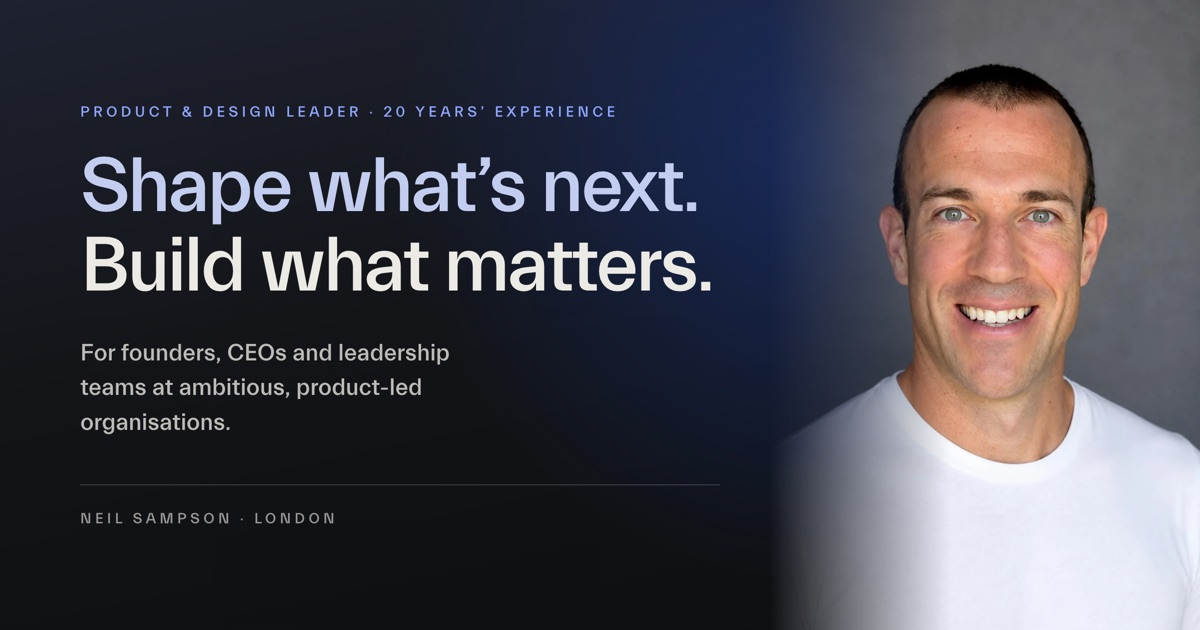
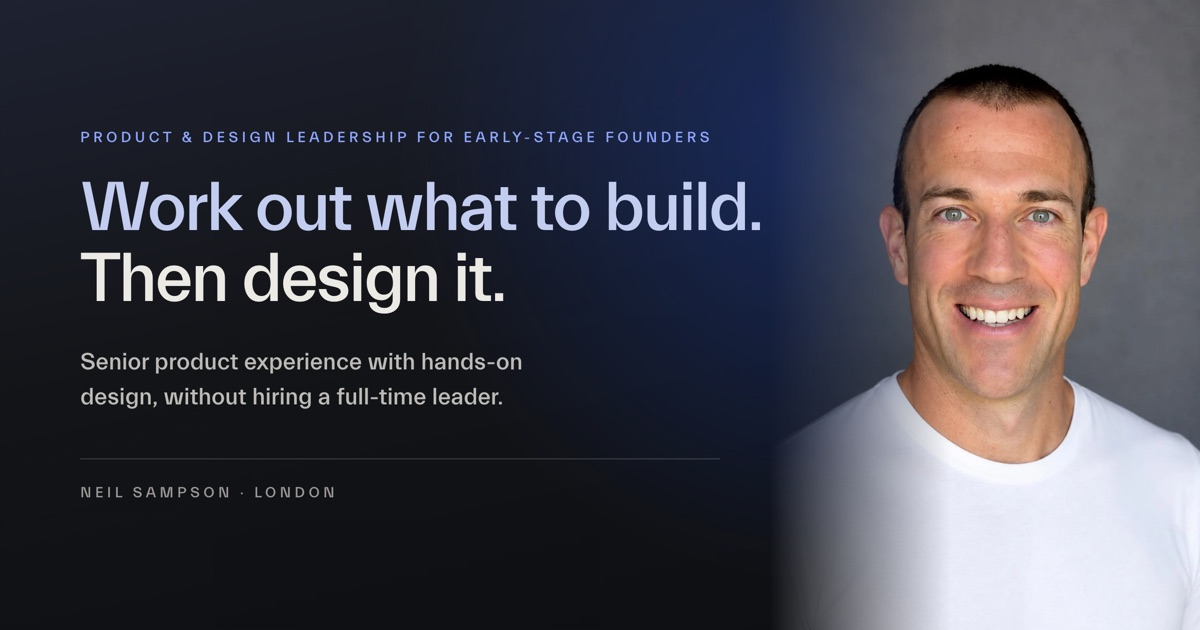
Redraw the share card for founders and tidy the padel line
- The share card now matches the hero: "Product & design leadership for
  early-stage founders", "Work out what to build. Then design it." and a
  one-line summary. It publishes as share-card-founders.jpg, since previews
  cache by URL; every page points at it, the older filenames serve the same
  picture, and the image alt text matches.
- The Why Neil? padel sentence ends "…through to launch, and paying
  customers in the UK market."

Changed region(s): [[0.0617, 0.1508, 0.6475, 0.5127], [0.0617, 0.5429, 0.4317, 0.6937], [0.0617, 0.754, 0.2775, 0.8444]]

diff --git a/why-neil.html b/why-neil.html
@@ -25,11 +25,11 @@
 <meta name="twitter:card" content="summary_large_image">
 <meta name="twitter:title" content="Why work with me | Neil Sampson">
 <meta name="twitter:description" content="Why founders work with Neil Sampson: a designer by training, twenty years across agencies, consultancies and in-house teams, and a product business built from scratch.">
-<meta property="og:image" content="https://neil-sampson.com/assets/share-card-leader.jpg">
+<meta property="og:image" content="https://neil-sampson.com/assets/share-card-founders.jpg">
 <meta property="og:image:width" content="1200">
 <meta property="og:image:height" content="630">
-<meta property="og:image:alt" content="Neil Sampson, product and design leader: shape what&#8217;s next, build what matters">
-<meta name="twitter:image" content="https://neil-sampson.com/assets/share-card-leader.jpg">
+<meta property="og:image:alt" content="Neil Sampson, product and design leadership for early-stage founders: work out what to build, then design it">
+<meta name="twitter:image" content="https://neil-sampson.com/assets/share-card-founders.jpg">
 
 
 <link rel="icon" type="image/png" sizes="32x32" href="assets/favicon-32.png">
@@ -88,7 +88,7 @@
 
         <div class="feature__text">
           <p data-reveal="up">I&#8217;ve worked across agencies, consultancies and in-house teams, helping businesses improve conversion, build better products and turn complex problems into things people actually want to use. That&#8217;s included everything from ecommerce to start-ups to large, complex organisations.</p>
-          <p data-reveal="up">I&#8217;ve also built a physical product of my own. Most recently, I bootstrapped a padel racket business from scratch, taking an idea from proposition and product through to launch, paying customers and the UK market.</p>
+          <p data-reveal="up">I&#8217;ve also built a physical product of my own. Most recently, I bootstrapped a padel racket business from scratch, taking an idea from proposition and product through to launch, and paying customers in the UK market.</p>
           <p data-reveal="up">I&#8217;ve seen a lot. I&#8217;ve seen what great looks like. I&#8217;ve seen what gets in the way. I&#8217;ve seen teams overthink things, build the wrong things, move too slowly and mistake activity for progress. And I&#8217;ve learned a lot from making those mistakes myself.</p>
           <p data-reveal="up">I&#8217;m most excited working with founders and entrepreneurial teams. I like people with energy, ambition and a healthy disregard for how things are &#8220;normally&#8221; done.</p>
           <p data-reveal="up">I&#8217;ll work alongside you, not above you. I&#8217;ll get to know you, your team and your customers. I&#8217;ll challenge you when I think you&#8217;re heading in the wrong direction, and I&#8217;ll care about the outcome as much as you do.</p>

diff --git a/tools/share-card.html b/tools/share-card.html
@@ -2,7 +2,7 @@
 <meta charset="utf-8">
 <title>Share card</title>
 <!--
-  Source for assets/share-card-leader.jpg, the Open Graph image.
+  Source for assets/share-card-founders.jpg, the Open Graph image.
 
   It mirrors the homepage hero: the same 168deg ground gradient, the same blue
   glow, Everett from /fonts, and the headline with its first sentence in
@@ -13,12 +13,12 @@
       --window-size=1200,630 --screenshot=/tmp/card-2x.png \
       "file://$PWD/tools/share-card.html"
     sips -z 630 1200 /tmp/card-2x.png --setProperty format jpeg \
-      --setProperty formatOptions 82 --out assets/share-card-leader.jpg
+      --setProperty formatOptions 82 --out assets/share-card-founders.jpg
 
   Rendering at 2x and halving keeps the type crisp. Copy the result over
-  assets/share-card.jpg, share-card-2026.jpg, share-card-clarity.jpg and
-  share-card-shape.jpg too: previews cache by URL, so the old names have to
-  keep serving the current picture. When the design changes materially, give it a new filename and
+  assets/share-card.jpg, share-card-2026.jpg, share-card-clarity.jpg,
+  share-card-shape.jpg and share-card-leader.jpg too: previews cache by URL,
+  so the old names have to keep serving the current picture. When the design changes materially, give it a new filename and
   repoint og:image/twitter:image, or caches will hold the old one.
 -->
 <style>
@@ -109,8 +109,9 @@
     margin-bottom: 26px;
   }
 
+  /* 70px holds "Work out what to build." to one line clear of the portrait. */
   h1 {
-    font-size: 78px;
+    font-size: 70px;
     font-weight: 500;
     line-height: 1.02;
     letter-spacing: -.03em;
@@ -124,7 +125,7 @@
     font-weight: 500;
     line-height: 1.45;
     color: rgba(236, 234, 228, .78);
-    max-width: 27ch;
+    max-width: 30ch;
   }
 
   .rule {
@@ -153,9 +154,9 @@
 </div>
 
 <div class="inner">
-  <span class="eyebrow">Product &amp; design leader &#183; 20 years&#8217; experience</span>
-  <h1><em>Shape what&#8217;s next.</em><br>Build what matters.</h1>
-  <p class="lead">For founders, CEOs and leadership teams at ambitious, product-led organisations.</p>
+  <span class="eyebrow">Product &amp; design leadership for early-stage founders</span>
+  <h1><em>Work out what to build.</em><br>Then design it.</h1>
+  <p class="lead">Senior product experience with hands-on design, without hiring a full&#8209;time leader.</p>
   <div class="rule"></div>
   <div class="colophon">Neil Sampson &#183; London</div>
 </div>

diff --git a/case-fca.html b/case-fca.html
@@ -25,11 +25,11 @@
 <meta name="twitter:card" content="summary_large_image">
 <meta name="twitter:title" content="FCA &#8212; building an in-house design practice">
 <meta name="twitter:description" content="An in-house design practice and product operating model at the UK financial regulator.">
-<meta property="og:image" content="https://neil-sampson.com/assets/share-card-leader.jpg">
+<meta property="og:image" content="https://neil-sampson.com/assets/share-card-founders.jpg">
 <meta property="og:image:width" content="1200">
 <meta property="og:image:height" content="630">
-<meta property="og:image:alt" content="Neil Sampson, product and design leader: shape what&#8217;s next, build what matters">
-<meta name="twitter:image" content="https://neil-sampson.com/assets/share-card-leader.jpg">
+<meta property="og:image:alt" content="Neil Sampson, product and design leadership for early-stage founders: work out what to build, then design it">
+<meta name="twitter:image" content="https://neil-sampson.com/assets/share-card-founders.jpg">
 
 <link rel="icon" type="image/png" sizes="32x32" href="assets/favicon-32.png">
 <link rel="icon" type="image/png" sizes="16x16" href="assets/favicon-16.png">

diff --git a/services.html b/services.html
@@ -25,11 +25,11 @@
 <meta name="twitter:card" content="summary_large_image">
 <meta name="twitter:title" content="Fractional design &amp; product services | Neil Sampson">
 <meta name="twitter:description" content="Product strategy, design leadership, service design and capability building.">
-<meta property="og:image" content="https://neil-sampson.com/assets/share-card-leader.jpg">
+<meta property="og:image" content="https://neil-sampson.com/assets/share-card-founders.jpg">
 <meta property="og:image:width" content="1200">
 <meta property="og:image:height" content="630">
-<meta property="og:image:alt" content="Neil Sampson, product and design leader: shape what&#8217;s next, build what matters">
-<meta name="twitter:image" content="https://neil-sampson.com/assets/share-card-leader.jpg">
+<meta property="og:image:alt" content="Neil Sampson, product and design leadership for early-stage founders: work out what to build, then design it">
+<meta name="twitter:image" content="https://neil-sampson.com/assets/share-card-founders.jpg">
 
 <link rel="icon" type="image/png" sizes="32x32" href="assets/favicon-32.png">
 <link rel="icon" type="image/png" sizes="16x16" href="assets/favicon-16.png">

diff --git a/case-lindblad.html b/case-lindblad.html
@@ -25,11 +25,11 @@
 <meta name="twitter:card" content="summary_large_image">
 <meta name="twitter:title" content="Lindblad &#8212; a $10k+ product made self-serve">
 <meta name="twitter:description" content="A $10k+ expedition cruise booking turned into a self-serve digital experience.">
-<meta property="og:image" content="https://neil-sampson.com/assets/share-card-leader.jpg">
+<meta property="og:image" content="https://neil-sampson.com/assets/share-card-founders.jpg">
 <meta property="og:image:width" content="1200">
 <meta property="og:image:height" content="630">
-<meta property="og:image:alt" content="Neil Sampson, product and design leader: shape what&#8217;s next, build what matters">
-<meta name="twitter:image" content="https://neil-sampson.com/assets/share-card-leader.jpg">
+<meta property="og:image:alt" content="Neil Sampson, product and design leadership for early-stage founders: work out what to build, then design it">
+<meta name="twitter:image" content="https://neil-sampson.com/assets/share-card-founders.jpg">
 
 <link rel="icon" type="image/png" sizes="32x32" href="assets/favicon-32.png">
 <link rel="icon" type="image/png" sizes="16x16" href="assets/favicon-16.png">

diff --git a/index.html b/index.html
@@ -25,11 +25,11 @@
 <meta name="twitter:card" content="summary_large_image">
 <meta name="twitter:title" content="Product &amp; design leader for early-stage founders | Neil Sampson">
 <meta name="twitter:description" content="Product and design leadership for early-stage founders. Work out what to build, then design it &#8212; without the commitment of hiring a full-time product or design leader.">
-<meta property="og:image" content="https://neil-sampson.com/assets/share-card-leader.jpg">
+<meta property="og:image" content="https://neil-sampson.com/assets/share-card-founders.jpg">
 <meta property="og:image:width" content="1200">
 <meta property="og:image:height" content="630">
-<meta property="og:image:alt" content="Neil Sampson, product and design leader: shape what&#8217;s next, build what matters">
-<meta name="twitter:image" content="https://neil-sampson.com/assets/share-card-leader.jpg">
+<meta property="og:image:alt" content="Neil Sampson, product and design leadership for early-stage founders: work out what to build, then design it">
+<meta name="twitter:image" content="https://neil-sampson.com/assets/share-card-founders.jpg">
 
 <script type="application/ld+json">
 {

diff --git a/case-bpp.html b/case-bpp.html
@@ -25,11 +25,11 @@
 <meta name="twitter:card" content="summary_large_image">
 <meta name="twitter:title" content="BPP &#8212; onboarding lead time cut from 6 weeks to 3">
 <meta name="twitter:description" content="Apprentice onboarding lead time cut from six weeks to three.">
-<meta property="og:image" content="https://neil-sampson.com/assets/share-card-leader.jpg">
+<meta property="og:image" content="https://neil-sampson.com/assets/share-card-founders.jpg">
 <meta property="og:image:width" content="1200">
 <meta property="og:image:height" content="630">
-<meta property="og:image:alt" content="Neil Sampson, product and design leader: shape what&#8217;s next, build what matters">
-<meta name="twitter:image" content="https://neil-sampson.com/assets/share-card-leader.jpg">
+<meta property="og:image:alt" content="Neil Sampson, product and design leadership for early-stage founders: work out what to build, then design it">
+<meta name="twitter:image" content="https://neil-sampson.com/assets/share-card-founders.jpg">
 
 <link rel="icon" type="image/png" sizes="32x32" href="assets/favicon-32.png">
 <link rel="icon" type="image/png" sizes="16x16" href="assets/favicon-16.png">

diff --git a/case-polesdon.html b/case-polesdon.html
@@ -25,11 +25,11 @@
 <meta name="twitter:card" content="summary_large_image">
 <meta name="twitter:title" content="Polesdon &#8212; launching a padel brand from scratch">
 <meta name="twitter:description" content="A padel racket brand built and launched from scratch.">
-<meta property="og:image" content="https://neil-sampson.com/assets/share-card-leader.jpg">
+<meta property="og:image" content="https://neil-sampson.com/assets/share-card-founders.jpg">
 <meta property="og:image:width" content="1200">
 <meta property="og:image:height" content="630">
-<meta property="og:image:alt" content="Neil Sampson, product and design leader: shape what&#8217;s next, build what matters">
-<meta name="twitter:image" content="https://neil-sampson.com/assets/share-card-leader.jpg">
+<meta property="og:image:alt" content="Neil Sampson, product and design leadership for early-stage founders: work out what to build, then design it">
+<meta name="twitter:image" content="https://neil-sampson.com/assets/share-card-founders.jpg">
 
 <link rel="icon" type="image/png" sizes="32x32" href="assets/favicon-32.png">
 <link rel="icon" type="image/png" sizes="16x16" href="assets/favicon-16.png">
